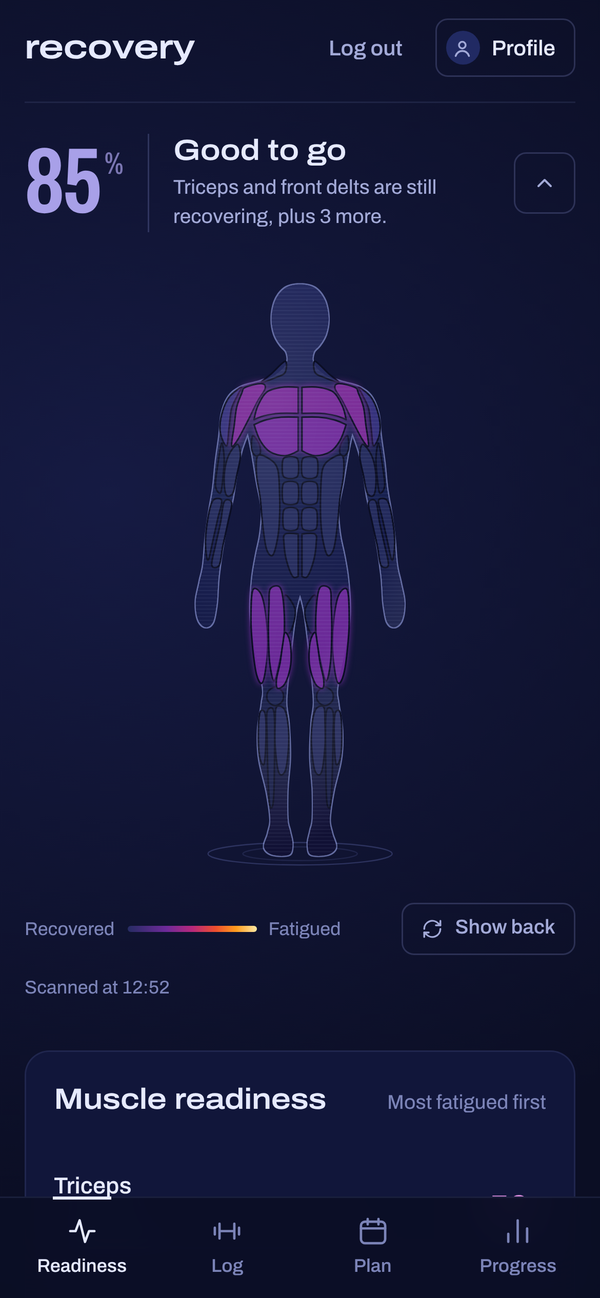
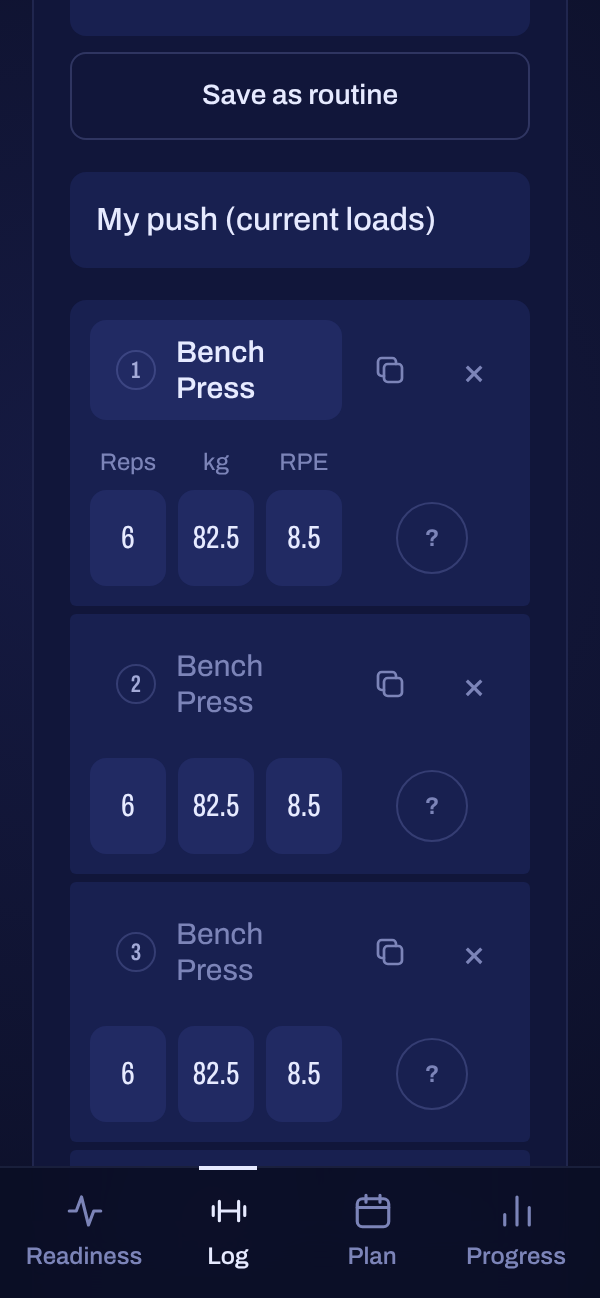
docs: README for the public release, SECURITY.md, new screenshots

diff --git a/README.md b/README.md
@@ -12,21 +12,28 @@ Plan a future session, and it projects what your readiness would be afterwards.
 
 <table>
   <tr>
+    <td width="70%"><img src="docs/screenshots/log.png" alt="Log — a routine loaded, sets grouped into numbered blocks per exercise"></td>
+    <td width="30%" rowspan="2"><img src="docs/screenshots/mobile.png" alt="Mobile layout — the same sets as joined cards"></td>
+  </tr>
+  <tr>
     <td width="70%"><img src="docs/screenshots/planner.png" alt="Planner — projected readiness for a future session"></td>
-    <td width="30%"><img src="docs/screenshots/mobile.png" alt="Mobile layout"></td>
   </tr>
 </table>
+
+![Progress — weekly volume, muscle-group balance, most-logged exercises](docs/screenshots/progress.png)
 
 ---
 
 ## What it does
 
 - **Readiness map** — 17 muscle groups, colour-coded from recovered to fatigued, on a front/back body map.
-- **Workout log** — 52 exercises, each mapped to the muscles it trains (primary/secondary activation). Edit and delete past sessions.
+- **Workout log** — 52 exercises, each mapped to the muscles it trains (primary/secondary activation), with accent-insensitive search and muscle-group filters. Consecutive sets of the same exercise are grouped into numbered blocks, and **Repeat set** copies a set in one tap. Edit and delete past sessions.
+- **Routines** — load a built-in Push / Pull / Leg day or one of your own into the log or the planner; save what's on screen as a routine.
 - **Planner** — sketch a future session and see each muscle's readiness *before → after* on that date, without saving anything.
 - **Progress** — weekly volume over 8 weeks, set distribution per muscle group, most-trained exercises.
 - **Personalisation** — optional profile (body weight, age, sex, activity level) scales fatigue by *relative* load and adjusts recovery speed. No profile → the unpersonalised baseline, unchanged.
 - **Data export** — your full history as a real Excel workbook (sessions + sets, dates in your time zone) or as JSON, from Progress → *Your data*. The `.xlsx` is written by a small pure-PHP ZIP + SpreadsheetML writer (no ext-zip needed), and user text is always stored as text, never as a formula.
+- **Responsive** — desktop two-column layout down to phones as narrow as 300 px, with a bottom tab bar.
 
 ## How the model works
 
@@ -52,14 +59,17 @@ Full specification, coefficients and limitations: **[docs/recovery-model.md](doc
 ```
 js/      ES modules (UI, state, single API transport)  ──HTTP/JSON──▶
 pages/   thin endpoints: auth, validation, response shaping
-bll/     business rules: RecoveryCalculator, WorkoutValidator, AuthThrottle, PasswordPolicy
+bll/     business rules: RecoveryCalculator, Workout/RoutineValidator, AuthThrottle,
+         PasswordPolicy, TrainingExport (+ XlsxWriter, ZipWriter)
 dal/     repositories (PDO, prepared statements only)
 MySQL / MariaDB (InnoDB)
 ```
 
 **Security.**
-- Every endpoint goes through one bootstrap: hardened session cookie (`HttpOnly`, `SameSite=Lax`, strict mode), **CSRF** tokens on every state-changing request, and a global error handler, so no stack trace ever reaches the browser.
-- **Content-Security-Policy** with `script-src 'self'`; all user-entered text rendered via `textContent`.
+- Every endpoint goes through one bootstrap: hardened session cookie (`HttpOnly`, `SameSite=Lax`, strict mode), **CSRF** tokens on every state-changing request, and a global error handler, so no stack trace ever reaches the browser. Session ID and CSRF token both rotate at sign-in.
+- **Ownership enforced in SQL**: every write carries `AND user_id = ?`, including the child-row deletes, so another user's workout or routine answers 404 even to a hand-crafted request. Built-in templates (`user_id NULL`) can't be modified by anyone.
+- **Content-Security-Policy** with `script-src 'self'`; everything that comes from the server is rendered via `textContent`, never `innerHTML`.
+- **Exports can't carry formulas**: the `.xlsx` stores text as inline strings, and the CSV prefixes `= + - @` cells (CSV injection).
 - **Brute-force throttling**: 5 failed logins per account and 20 per IP per 15 min, plus a timing-safe login so response times don't reveal which emails exist. Registration is rate-limited too.
 - Passwords: bcrypt, 10–72 bytes (bcrypt's real limit), common-password deny-list.
 - Input validation follows *reject, don't repair*: `"12abc"` reps is a 400, never silently `12`.
@@ -76,8 +86,8 @@ MySQL / MariaDB (InnoDB)
 **Testing & CI.** On every push, GitHub Actions runs:
 - `composer validate`, `composer audit` (known vulnerabilities), `php -l` on every file
 - **PHPStan level 6** static analysis
-- **PHPUnit** on PHP 8.1 and 8.3, with 41 unit tests using stubs instead of a database. The tests pin the model's exact numbers, not just its direction.
-- an **end-to-end smoke test**: a real Apache + MariaDB, a fresh install, then 50 HTTP checks covering file exposure (including backups), CSP, CSRF, throttling, payload limits, the full workout lifecycle and UTC handling.
+- **PHPUnit** on PHP 8.1 and 8.3, with 76 unit tests using stubs instead of a database. The tests pin the model's exact numbers, not just its direction, and read the generated `.xlsx` back with an independent ZIP reader.
+- an **end-to-end smoke test**: a real Apache + MariaDB, a fresh install, then 80 HTTP checks covering file exposure (including backups), CSP, CSRF, throttling, payload limits, the full workout lifecycle, UTC handling, routines across two accounts (IDOR) and the Excel export (formula injection, time zones).
 
 ## Tech stack
 
@@ -142,6 +152,7 @@ config/              bootstrap (security), env loader, DB connection
 js/  css/            frontend (ES modules, modular CSS, self-hosted font)
 database/            schema, seeds, migrations, install/migrate/backup/demo scripts
 tests/Unit/          PHPUnit suites
+tests/Support/       test helpers (independent ZIP reader for the .xlsx export)
 tests/ApiSmokeTest.php   end-to-end HTTP checks
 docs/                model specification, screenshots
 ```
@@ -149,6 +160,7 @@ docs/                model specification, screenshots
 ## Roadmap
 
 - Self-service account deletion (operator-only today)
+- Exercise demonstrations (start/end position images) in the exercise picker
 - Learning per-user recovery constants from post-session soreness feedback
 - Remove `'unsafe-inline'` from the style CSP (move the remaining inline styles to classes)
 - Offline-capable PWA

diff --git a/SECURITY.md b/SECURITY.md
@@ -1,0 +1,25 @@
+# Security policy
+
+## Reporting a vulnerability
+
+Please **don't open a public issue** for security problems.
+
+Report it privately through GitHub instead: on this repository, open the **Security** tab and choose **Report a vulnerability**. Only the maintainer can see the report.
+
+Useful things to include:
+
+- what an attacker could do, and under which conditions (signed in? another account?)
+- steps or a request that reproduces it
+- the commit or date of the version you tested
+
+You'll get an answer as soon as possible. Once a fix is released, you'll be credited in the commit message unless you'd rather not be.
+
+## Supported versions
+
+Only the latest commit on `main` is supported. There are no separate release branches.
+
+## Scope
+
+The app is designed to run on your own machine (see *Before exposing it to a network* in the [README](README.md)). Findings that only apply to a public deployment are still welcome: they help whoever hosts an instance.
+
+The security measures already in place are listed under **Engineering highlights → Security** in the README.
